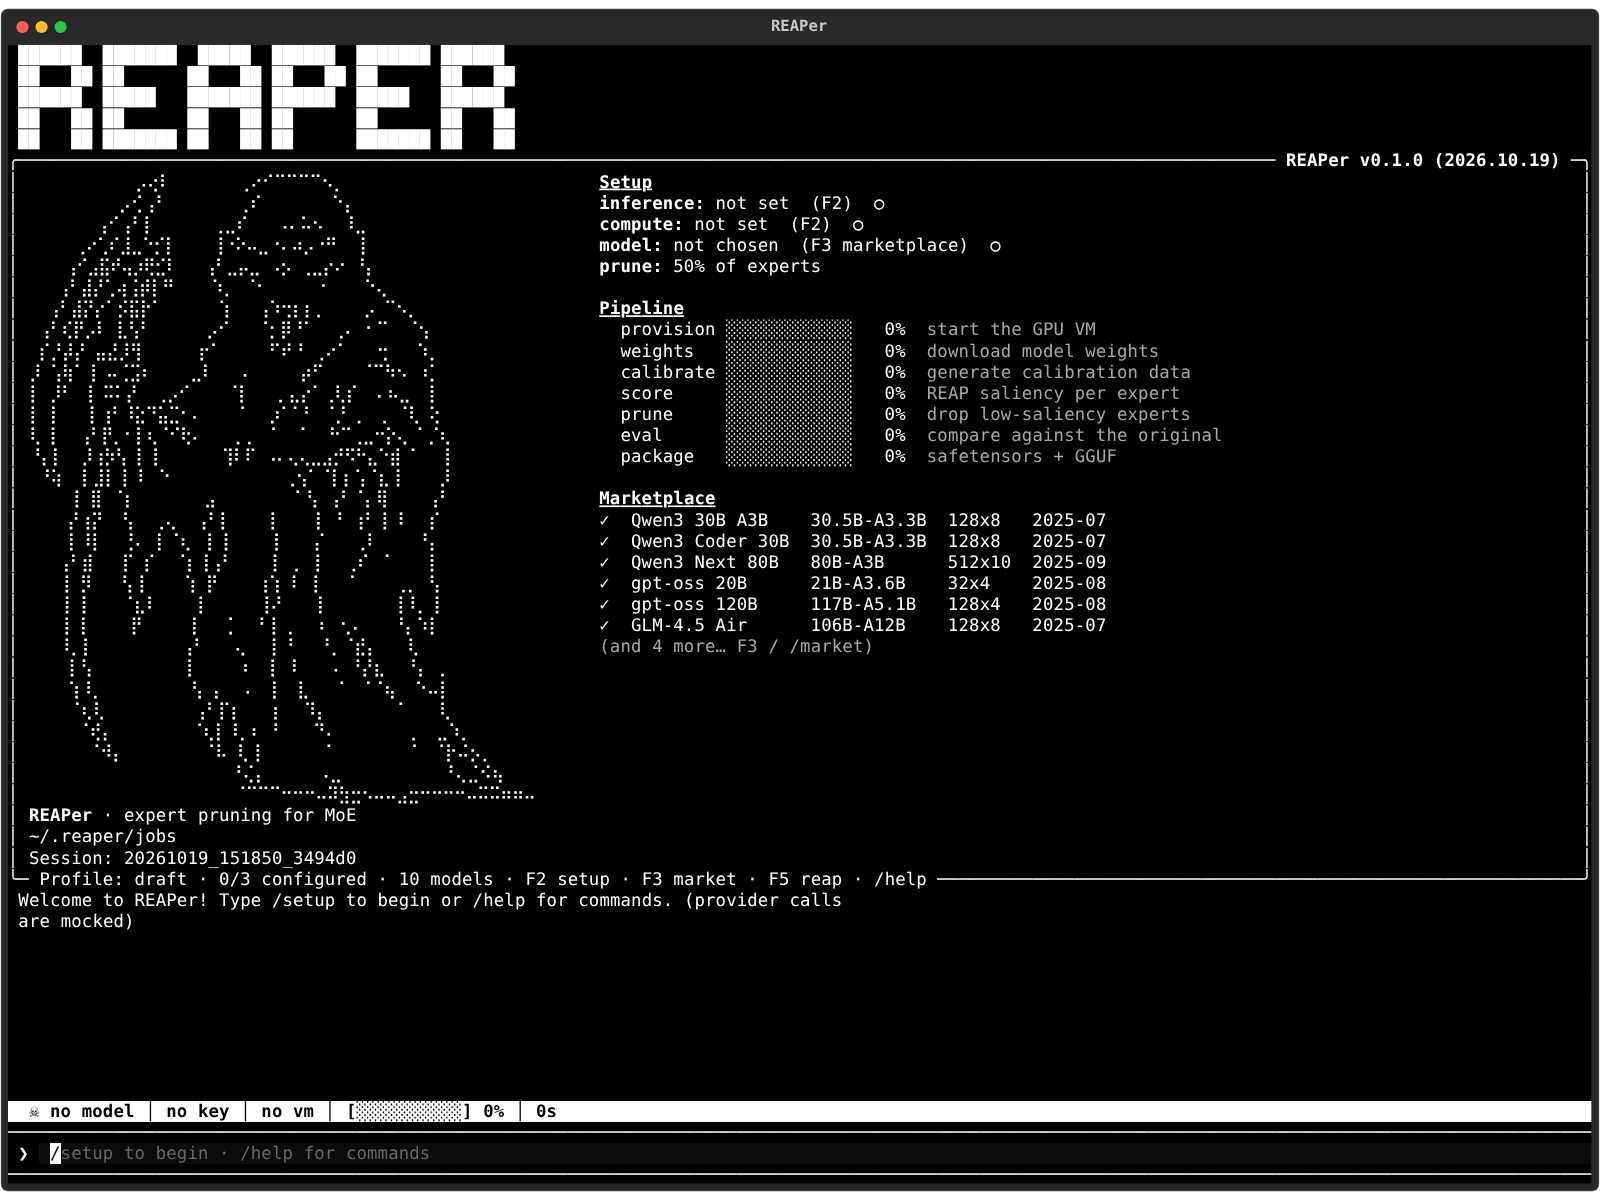
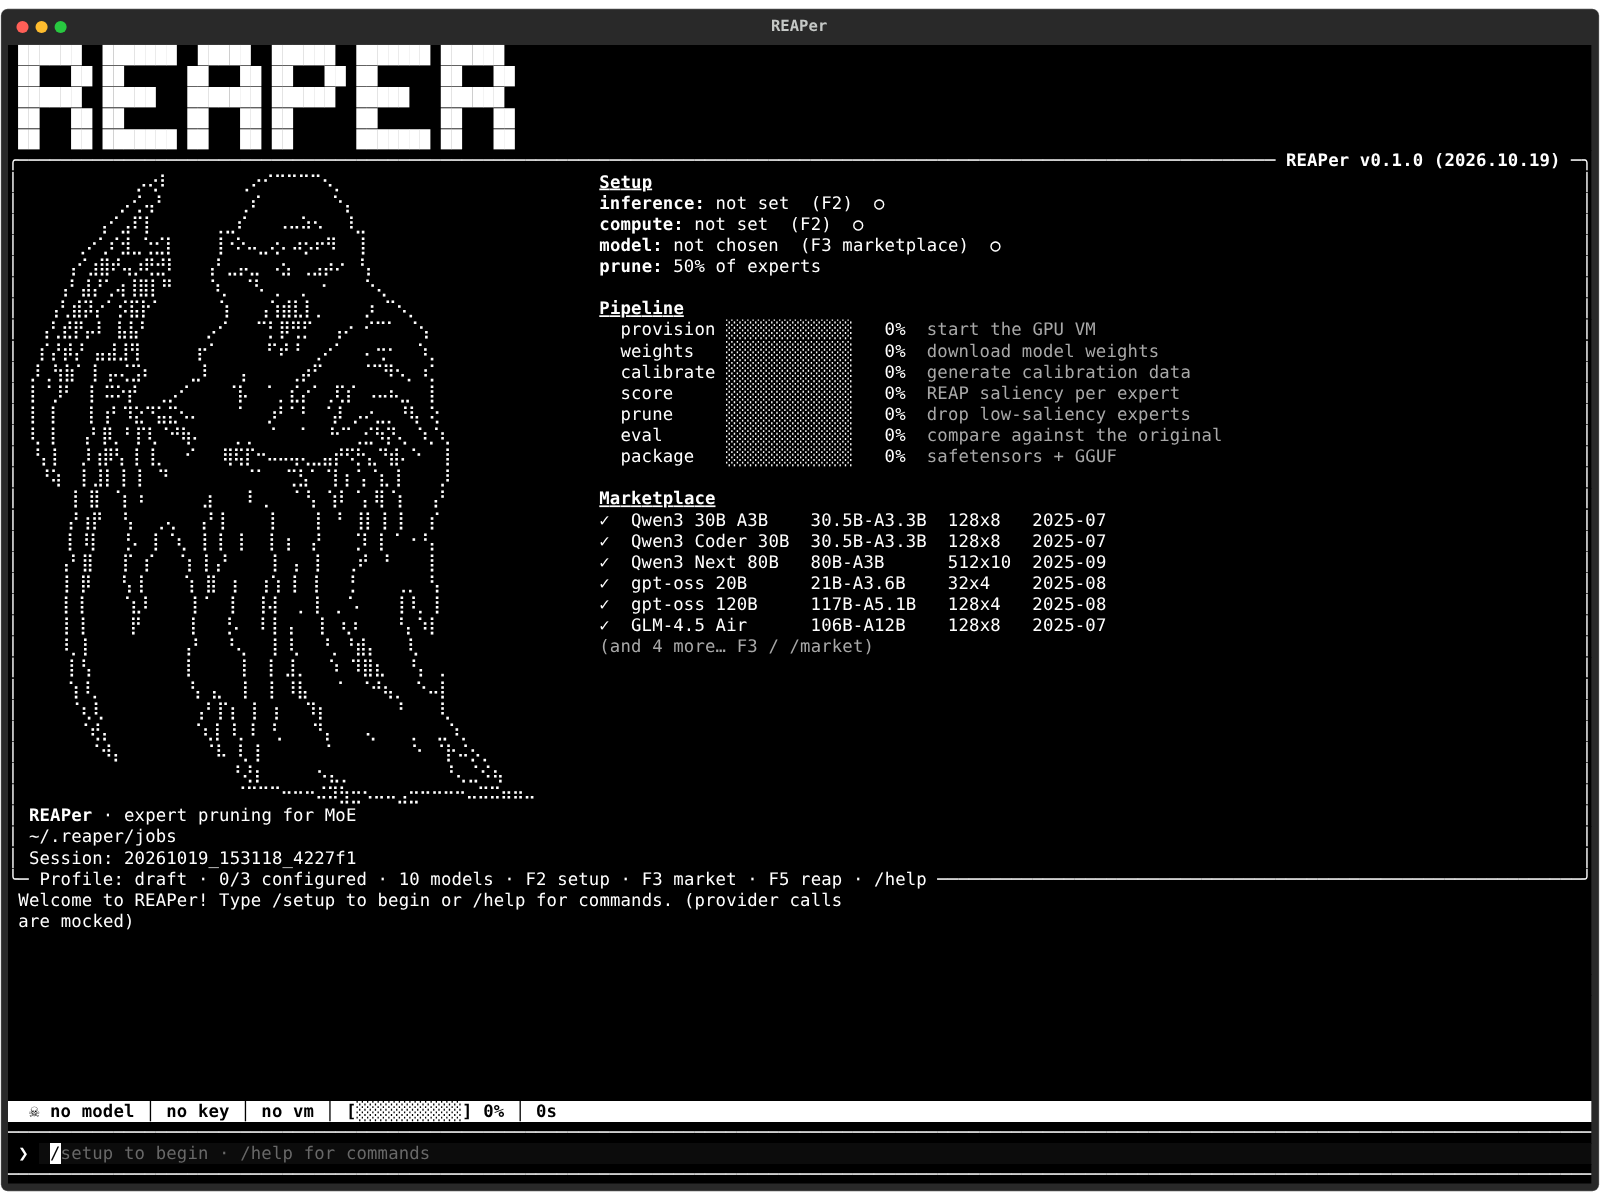
REAPer: slightly thicker reaper lines
Claude-Session: https://claude.ai/code/session_01VGAZs9gHQg7S7YAJ4xnDTB

diff --git a/reaper/reaper_tui/art.py b/reaper/reaper_tui/art.py
@@ -12,74 +12,74 @@ BANNER = """\
 
 # 60 x 38, used when the terminal is tall enough
 REAPER_LARGE = """\
-              ⢀⠔⡹          ⢀⠔⠊⠉⠉⠉⠉⠑⠲⡀
-            ⡠⠚⠁⡜          ⢰⠁        ⠘⡄
-          ⢀⠞⢀⠔⡜          ⢠⠃     ⠠⣀   ⠘⡄
-        ⢀⠔⠁⢐⡟ ⡇⢀⡀      ⡖⠒⡃    ⠐⠊⠑⠂⠑⣀  ⠑⢢
-       ⢠⠊⢠⠎⢘⣇ ⠈⣁⢣      ⡇⠘⠜⠢⢄⡠⠐⠆⡴⢊⠤⠚⠒⠅  ⢸
-      ⡔⠁⣰⣯⡶⣁⡀⣝⠟⠺⡸     ⡰⠁ ⣀  ⠈⢁⠤⡈⠁ ⢀⡠⣂⠆ ⠸⢄
-     ⡜ ⡜⡿⠋⢀⡀⣿⡜⡞⣦⠃    ⠸⡀ ⠉⠑⢏   ⠉⢁ ⠉⠩⠊   ⢠⠸⡀
-   ⢀⠜⢀⣾⢟⢀⠔⡡⢣⡿⢃⡇       ⠱⡀   ⠁ ⣆⣀⣨⢀      ⠈ ⡈⠢⢄
-  ⢀⠎⢀⢮⡷⢡⠃ ⡱⢱⠇⡇         ⡇   ⢀⡄⡝⡹⣹⢸⡐    ⢀⢄⠴  ⡀⠙⢄
-  ⡜⢀⢎⡿⢡⢼  ⡇⡏⡜        ⢀⠔⠁    ⡕⠇⢇⠿⠋⠡   ⡠⠃⠐⠊⠉    ⠑⡄
- ⡸ ⡌⣼⢡⠃⢀⣀⡸⠰⡇⡇       ⡤⠊      ⠁⡗⣭⠚⠃  ⣠⠎   ⢀⠠⠄   ⠐⡅
-⢠⠃⢰⢰⢇⠇ ⡎⠉⠉⠐⠧⢣      ⢠⠃  ⡀      ⠸  ⣠⠞⠁   ⢀⠡⠔⢶⣄⡀  ⡱
-⡜ ⠆⣼⡜  ⡇⢘⣓⣒⠴⡍     ⣀⠔⠁  ⠁⢀⡇     ⢀⠐⢋  ⢀ ⡀    ⠁⠈  ⢱
-⡇ ⢠⠛⠁ ⠘⡄⡐⠄⠂⢽⠁  ⢀⢤⠊⠁      ⡟    ⡀⢸⣴⠋  ⡎⡸⠁  ⠐⠚⠲⣄  ⠘⡄
-⡇ ⢸    ⢸ ⣰⠇⠐⣯⡉⠹⣁⣈⠑⠤      ⠃   ⣰⠁ ⠘  ⠘⢠⠇ ⣀⠄   ⠘⢇  ⡇
-⡇ ⢸    ⡸ ⡿ ⠠⢸⠑⡄⠙⠪⢳⢦          ⠁  ⠐   ⠼⠔⠊ ⠄⠪⡝⢦⡀ ⠳⡀⠑⡄
-⠸⡀⢸    ⡇⢸⢧⡆ ⢸ ⢱   ⠡⠡    ⠰⡰⣱         ⢀⠤⢤⣀⠙⢦⣈⢆⠑⣄ ⠈ ⢱
- ⢣⠘⡄  ⢸ ⣾⡎⢸ ⢸ ⠸⡄        ⠹⠙⠘⡈⠉⠉⠑⡐⣕⠴⡂⢭⣴⠈⠳⡈⢣⡀⠙⡏⠄⠈⠂  ⢸
-  ⠱⡇  ⡎⢀⣧⠃⠸⡀⠘⡀ ⠈                ⣌⢆⠈ ⢣⢸ ⢣ ⢱ ⢹     ⡸
-     ⢠⠃⢸⡹  ⡇ ⠃       ⢀⡄    ⠃    ⠈⠈⢆ ⠘⡼ ⠈⡄⢹⡇⢸    ⢠⠃
-     ⢸ ⡜⡇  ⢸         ⡜⢱      ⡆    ⢸  ⠇ ⢰⡇ ⡇⠸   ⢀⠎
-     ⡎ ⣷⠁   ⡇  ⡔⠑⢄  ⢠⠃⢸      ⡇    ⠸    ⠸⡇ ⡇    ⢸
-     ⡇⢠⡻   ⣀⡇ ⢀⠇ ⠈⡆ ⢸ ⢸  ⡇  ⢸⡇ ⡆  ⡇    ⢠⠇ ⡇    ⢸
-    ⢸ ⢸⡇   ⡏ ⢀⠎   ⠸⡀ ⡇⡎     ⢸⡇ ⡇  ⡇   ⡰⠋  ⠁    ⢸
-    ⢸ ⠈⡇   ⢸ ⢜     ⢣ ⢱⠇ ⢠   ⡸⢱ ⠃  ⡇   ⡇        ⠈⡆
-    ⢸ ⣿     ⢣⢸     ⠸⡀⢸  ⢸   ⢇⡸ ⠈  ⢣   ⢃     ⢸⢱  ⡇
-    ⢸ ⢻     ⢸⡸      ⡇   ⢸   ⡘⢡  ⠐ ⠸⡀ ⢀ ⠁    ⢸ ⢇ ⡇
-    ⢸ ⢸     ⢸⠃      ⡇   ⡠⠂  ⠇⢸   ⢠ ⢣ ⠈⡆⢆    ⠈⡆ ⢷⠁
-    ⢸ ⢸            ⢸    ⠃⢄   ⢸ ⢸ ⠘ ⠈⡆ ⠸⡜⡄    ⢣
-    ⠈⡆⢸            ⢸      ⢣  ⢸  ⡆   ⠘⡀ ⢻⡽⣆   ⠘⡄
-     ⢇ ⡇           ⠘⡄     ⠘  ⢸ ⠐⣱       ⠑⠝⣅   ⠸⡀⢸⡆
-     ⠘⡄⢣            ⠈⡆⢰⡆  ⠐  ⡸  ⠹⣇    ⠁   ⠈⠳⡄  ⠈⢁⠇
-      ⠱⡈⡆            ⡇⢸⠘⡄    ⠁   ⠹⡆         ⠁    ⢣
-       ⢱⠱⡀           ⢇⢸ ⢱ ⢠  ⠇    ⠙⡄    ⠄   ⢄     ⠑⢄
-        ⠑⣵           ⠈⢪⡆ ⢇⠈⡆       ⠈    ⠈     ⠑⠄ ⠙⡦⢌⠢⡀
-         ⠈⠁           ⠈⠁ ⠸⡀⡇                      ⠸⡀⠑⢌⠢⡀
-                          ⠓⠼⣀⣀     ⠈⠲⣤⣀            ⠘⠢⢄⣉⣺⠆
-                              ⠉⠉⠉⠉⠑⠒⠒⠤⠽⣫⣕⠒⠲⠤⠤⣲⣖⡒⠒⠒⠒⠒⠒⠒⠒⠢⠭⠵⠶⠶"""
+              ⢀⠔⡿          ⢀⠔⠊⠉⠉⠉⠉⠑⠲⡀
+            ⣠⠞⡁⡜          ⢰⠁        ⠘⡄
+          ⢀⠞⢁⡜⡜          ⢠⠃     ⠠⣀   ⠘⡄
+        ⢀⠔⠁⣴⡟ ⡇⢀⡀      ⡖⠒⡃    ⠒⠊⠙⠊⠓⣀  ⠑⢢
+       ⢠⠊⢠⠎⢘⣇ ⠉⣁⢣      ⡇⢘⠜⠢⢄⡢⢐⠆⡴⢊⡤⠚⠒⡅  ⢸
+      ⡔⠁⣰⣿⣶⣁⡀⣝⠟⢺⡸     ⡰⢁⡘⣀  ⠈⢁⠤⡈⠁ ⢀⣠⣂⠦ ⠸⢄
+     ⡜ ⡜⡿⠋⢀⡀⣿⣼⡞⣧⠃    ⠸⡀ ⠉⠑⢿⠃  ⠉⢃ ⠉⠩⠊   ⢰⠾⡀
+   ⢀⠜⢀⣾⢿⢠⠔⣡⢣⣿⢋⡇       ⠱⡀   ⠁ ⣆⣠⣨⢢ ⠁    ⠈ ⡌⠢⢄
+  ⢀⠎⢠⢯⡷⢣⠃ ⡱⣱⡇⡇         ⡇   ⣀⡄⣽⡿⣹⢸⡔⠄   ⢀⢄⠴⠁⢀⣀⠙⢄
+  ⡜⢀⢏⡿⢡⢼  ⡇⡏⡜        ⢀⠔⠁    ⡝⠇⢇⠿⠏⢡   ⡰⠋⠐⠊⠉⠁   ⠑⡄
+ ⡸ ⡞⣼⢡⠃⢀⣀⡸⠸⡿⡇       ⡤⠊      ⠁⡗⣭⠺⠇  ⣠⠞   ⢀⠤⠤⢀⡀ ⠐⡅
+⢠⠃⢸⢱⣇⠇ ⡎⠉⠉⠓⠧⢧      ⢠⠃  ⡄⢀     ⠸  ⣠⡞⠁   ⢀⡥⠖⢶⣄⡀  ⡱
+⡜ ⡇⣼⡞  ⡇⢘⣛⣒⠴⡍     ⣀⠔⠁  ⠁⢀⡇     ⢀⠘⢋⡀ ⢀ ⡀    ⠙⠉⠢ ⢱
+⡇ ⢡⠛⠁ ⠘⡅⣐⠶⠒⢽⠁  ⢀⣤⠚⠁     ⠈⡿  ⠈ ⡄⢸⣴⠋ ⢀⡏⣼⠁ ⠠⠒⠚⠶⣄  ⠘⡄
+⡇ ⢸    ⢸ ⣰⠇⡔⣯⡋⡹⣁⣈⠓⠤⡀     ⠃   ⣰⢃⠈⠜  ⠸⢠⠇ ⣀⠄   ⠘⢗  ⡇
+⡇ ⢸    ⡸⢀⡿ ⢢⢸⠹⡄⠙⠯⢷⣦⢀         ⠃  ⠐   ⢾⠔⠋ ⠴⠻⣝⢦⡀ ⠳⡀⠑⡄
+⠸⡀⢸    ⡇⢸⢧⡆ ⢸⠇⢹   ⠣⠣   ⢀⣴⡼⣱⠆        ⣀⡤⢴⣎⠙⢦⣘⢆⠑⣄ ⠈ ⢱
+ ⢣⠘⡄  ⢸ ⣾⡎⢸ ⢸ ⠸⣄   ⠃   ⠈⠻⡙⢽⡛⠉⠭⢗⡹⣕⢶⡲⢽⣴⠉⠳⡈⢳⡀⠹⡟⡄⠈⠢  ⢸
+  ⠱⡇  ⡎⢀⣧⠃⠸⡀⠸⡄ ⠈⠑          ⠰⠁   ⣌⢆⠈⠂⢻⢸ ⢣ ⣻⡀⢹     ⡸
+     ⢠⠃⢸⡹  ⡇ ⠇       ⢀⡄    ⠇ ⡀  ⠈⠈⢇ ⠸⡼ ⠘⡆⢹⡇⢸    ⢠⠃
+     ⢸ ⡼⡇  ⢸         ⡜⢱   ⠸  ⡇    ⢸  ⡇ ⢸⡇⠈⡇⢸   ⢀⠎
+     ⡎ ⣷⠁   ⡇  ⡔⠑⢄  ⢠⠃⢸  ⡀  ⢰⡇    ⡸    ⠸⡇ ⡇⠈  ⡄⢸
+     ⡇⢰⡿   ⣀⡇ ⢀⠇ ⠈⡆ ⢸ ⢸  ⡇  ⢸⡇ ⡇  ⡇    ⢰⠇ ⡇   ⠃⢸
+    ⢸ ⢸⡇   ⡏ ⢀⠎   ⠸⡀ ⡇⡎ ⢀⠁  ⢸⡇ ⡇  ⡇   ⣰⠋  ⠁    ⢸
+    ⢸ ⡌⡇   ⢸ ⢜     ⢣ ⢱⡇ ⢸   ⡸⢱ ⠇  ⡇   ⡇        ⠈⡆
+    ⢸ ⣿     ⢣⢸     ⠸⡀⢸⠁ ⢸   ⢇⣸ ⠘  ⢧   ⢃     ⢸⢱  ⡇
+    ⢸ ⣿     ⢸⡸      ⡇⠈  ⢸   ⡼⢹  ⠐⡀⠸⡄ ⢂⢀⠁    ⢸ ⢇ ⡇
+    ⢸ ⣿     ⢸⠃      ⡇   ⣸⠂  ⠇⢸ ⠇ ⢰ ⢣ ⠘⣎⣆    ⠈⡆ ⢷⠁
+    ⢸ ⢹            ⢸    ⠃⢄   ⢸ ⢸ ⢸ ⠈⡆ ⢹⡼⣆    ⢣
+    ⠈⡆⢸            ⢸      ⢣  ⢸ ⠈⡇⠈  ⠘⡄ ⢻⡽⣆   ⠘⡄
+     ⢇ ⡇           ⠘⡄     ⢸  ⣿ ⠰⣻ ⠠  ⠱⡀ ⠙⠝⣇   ⠸⡀⢸⡆
+     ⠘⡄⢣            ⠈⡆⢰⡆  ⢸  ⡿  ⢹⣇ ⠃  ⠁   ⠈⠳⡄  ⠈⢉⠇
+      ⠱⡈⡆            ⡇⢸⠘⡄ ⢸ ⢠⠃   ⠻⡆         ⠁    ⢧
+       ⢱⠱⡀           ⢇⢸ ⢱ ⢸  ⠇    ⠹⡄   ⠈⢄   ⢆⡀    ⠑⣄
+        ⠑⣵           ⠈⢪⡆ ⢇⠈⡆ ⠈     ⠈⠄   ⠈⠂   ⠈⠑⠄ ⠹⡶⢌⠢⡀
+         ⠈⠁           ⠈⠁ ⠸⡀⣇                      ⠸⡀⠑⢌⡢⡀
+                          ⠓⠽⣀⣀     ⠉⠲⣤⣀            ⠙⠢⢄⣉⣺⠆
+                              ⠉⠉⠉⠉⠑⠒⠒⠤⠽⣫⣕⠒⠲⠦⠤⣲⣖⡒⠒⠒⠒⠒⠒⠒⠒⠢⠭⠵⠶⠶"""
 
 # 48 x 30
 REAPER = """\
            ⡠⢔⠇       ⢀⠔⠊⠉⠉⠉⠉⠢⡀
-         ⡠⢊⢠⠃       ⢀⠎       ⠑⡄
-       ⢠⠊⢠⠃⡇      ⢀⣀⠎   ⠠⠄⠥⠢  ⠸⣀
-     ⢀⠔⢁⠎⣸⣀⠑⡊⡇    ⢸⠐⠕⠤⣀⠐⠄⠴⡠⠐⠛  ⢸
-    ⢠⠊⣠⣯⠞⢤⡰⢟⣊⠇   ⢠⠃⣀⡤⣀ ⠠⡢ ⢀⣀⡔⠔ ⠘⡄
-   ⢠⠃⣼⡜⢁⢴⢨⡾⡇⠛    ⠱⡀ ⠈⠂     ⠐    ⠑⢄
-  ⢠⠃⣼⡝⡔⠁⡪⣯⡗⠁      ⢱   ⢠⠱⢒⡆⡆⡀    ⡠ ⠉⠢⡀
- ⢠⠃⢎⡟⡠⠇ ⣇⢣⠃      ⡠⠊   ⠈⡂⡿⠘⠁  ⢀⠄ ⠂⠉  ⠈⢢
- ⡎⡘⡼⡜ ⣤⣜⡸⢻      ⡖⠁     ⠋⠞⠘ ⢀⠔⠁   ⢒   ⠱⡀
-⡸ ⢡⢷⠁⢸ ⠤⢈⣩⠆    ⣀⠇   ⠄     ⡴⠋    ⠈⠉⠳⠢ ⠰⡁
-⡇ ⡸⠃ ⢸ ⠭⠅⡜  ⢀⡠⠊    ⠈⡇   ⡀⣄⡔⠁⢀⢇⡎  ⠄⠦⣀  ⡇
-⡇ ⡇   ⡇⢰⠃⠸⣕⠙⣥⣉⠂⠄    ⠁  ⡰⠁⠁⠃ ⠈⡘ ⡀ ⢀ ⠈⢇ ⢕
-⢇ ⡇  ⢠⠃⡟⡀⠂⡇⢆⠈⠊⢗⠄   ⢀⢀  ⠁  ⠁  ⠓⠉⢀⣀⠒⡕⢄ ⠁⡈⢆
-⠘⡄⡇  ⡸⢰⡳⢣ ⡇⢸       ⢹⠇⠏ ⠠⠄⢄⢄⣀⣠⡚⠫⠓⣄⠑⣾ ⠁  ⢸
- ⠘⢵  ⡇⣸⡇⢸ ⠇ ⠑            ⢀⢢⠁⠈⡇⡆⢡⠈⣆⢸    ⡸
-    ⢸ ⣿ ⠈⡆       ⣠        ⠁⢣ ⢠⠃⠈⡄⢿    ⢠⠃
-    ⡜⢰⡝  ⢣  ⢀⢄  ⢠⠃⡇    ⡇   ⢸ ⠘ ⢰⠃⢸ ⠇  ⡎
-    ⡇⠸⡇  ⢘⠄ ⡇⠈⢆ ⢸ ⡇    ⡇   ⡌   ⢀⠇    ⠘⡄
-   ⢠⠃⣾   ⡏ ⡎  ⠈⡆⢸⢠⠃    ⡇ ⡀ ⡇  ⢀⠎ ⠈    ⡇
-   ⢸ ⡻   ⢣⢸    ⢱ ⡟    ⢰⢱ ⠇ ⡇  ⠈    ⢀⡀ ⢣
-   ⢸ ⡇   ⠈⣆⠇    ⡇     ⢸⠜   ⢸       ⢸⠸⡀⢸
-   ⢸ ⡇    ⡟     ⡇  ⢈  ⠘⢸ ⡀  ⠆ ⢂⠄   ⠘⡄⠱⡇
-   ⠸⡀⡇         ⢠⠃   ⢄  ⢸ ⠃  ⠘⡀⠈⣞⡄   ⢇
-    ⡇⢣         ⢸     ⠆ ⢸ ⠸   ⠠ ⠘⡜⣆  ⠘⡄ ⡀
-    ⢱⠸⡀         ⢣ ⡄  ⠄ ⢸  ⣇   ⠁ ⠈⠈⢦  ⠑⠤⡇
-    ⠈⢆⢇         ⢠⠃⡏⡆   ⡆  ⠹⡄       ⠁   ⢇
-     ⠈⢞⡄        ⠈⢆⡇⠸⡀⠆ ⠃   ⠙⠄       ⢀  ⣀⠱⡀
-      ⠈⠺⡄        ⠈⠧ ⢇⢸      ⠈        ⠁ ⠈⡗⠬⡢⡀
-                    ⠘⢌⡄     ⠠⣀          ⠘⢄⣈⠪⢦
-                      ⠈⠉⠉⠉⠒⠒⠒⠤⠽⣳⣒⠢⠤⠤⣠⣒⠒⠒⠒⠒⠤⠭⠭⠶⠶⠤"""
+         ⡠⢊⢤⠃       ⢀⠎       ⠑⡄
+       ⢠⠊⣠⠏⡇      ⢀⣀⠎   ⠠⠤⠵⠢  ⠸⣀
+     ⢀⠔⢁⠎⣺⣀⢑⣊⡇    ⢸⠐⠕⠤⣀⢔⠄⠴⡢⠖⠻  ⢸
+    ⢠⠊⣰⣿⠞⢤⡰⢟⣚⠇   ⢠⠃⣀⡤⣀ ⠠⣢ ⢀⣠⡴⠔ ⠘⡄
+   ⢠⠃⣼⡜⢁⢴⢸⣿⡇⠛    ⠱⡀ ⠈⠣ ⡀ ⢀ ⠐    ⠑⢄
+  ⢠⢃⣾⡽⡔⠁⡪⣯⡗⠁      ⢱   ⢠⢱⣾⣇⡇⡀    ⡰ ⠉⠢⡀
+ ⢠⢃⣞⡟⡤⠇ ⣧⣧⠃      ⡠⠊   ⠉⡃⡿⢛⡋  ⢠⠔ ⠊⠉⠁ ⠈⢢
+ ⡎⡜⡾⡜ ⣤⣼⣸⢻      ⡖⠁     ⠋⠞⠘ ⢀⠔⠁  ⠄⢒⠂  ⠱⡀
+⡸⢀⢳⣷⠁⢸ ⡤⢌⣩⠆    ⣀⠇   ⡄    ⢀⡴⠋    ⠈⠉⠻⠢⡀⠰⡁
+⡇⠈⡸⠃ ⢸ ⠭⠕⡞  ⢀⡠⠊    ⠈⡧  ⠁⡀⣎⡔⠁⢀⢏⡎ ⠠⠤⠦⣀  ⡇
+⡇ ⡇   ⡇⢰⠃⠹⣕⠙⣥⣍⠢⠄    ⠁  ⡰⠃⠁⠃ ⠈⡼ ⡠⠔⣀⡀⠘⢧ ⢕
+⢇ ⡇  ⢠⠃⡿⡀⠃⡏⢇⠈⠚⢷⠄   ⢀⢀  ⠁  ⠁  ⠓⠉⢀⣊⠳⡝⢄ ⠱⡈⢆
+⠘⡄⡇  ⡸⢰⡿⢣ ⡇⢸⡀  ⠊   ⢿⢯⡏⠒⠤⠤⢤⢄⣀⣤⡞⠫⡓⣄⠙⣾⠄⠑  ⢸
+ ⠘⢵  ⡇⣸⡇⢸ ⡇ ⠙        ⠈⠁  ⢉⣣⠁⠈⡇⡆⢡⠈⣆⢸    ⡸
+    ⢸ ⣿ ⠈⡆⠰      ⣰   ⠸ ⡀  ⠁⢣ ⢱⠇⠈⡄⢿⠈⡆  ⢠⠃
+    ⡜⢰⡟  ⢣  ⢀⢄  ⢠⠃⡇    ⡇   ⢸ ⠘ ⢸⡇⢸ ⡇  ⡎
+    ⡇⠸⡇  ⢘⠄ ⡇⠈⢆ ⢸ ⡇ ⡇  ⡇⢰  ⡜   ⢈⠇⢸ ⠁⠐⠘⡄
+   ⢠⠃⣿   ⡏ ⡎  ⠈⡆⢸⢠⠃    ⡇ ⡄ ⡇  ⢀⠞ ⠘    ⡇
+   ⢸ ⡿   ⢣⢸    ⢱ ⣿ ⢰  ⢰⢱ ⡇ ⡇  ⢘    ⢀⡀ ⢣
+   ⢸ ⡇   ⠈⣆⠇    ⡇⠁ ⢸  ⢸⢼  ⡀⢸ ⢀⠈⠄   ⢸⠸⡀⢸
+   ⢸ ⡇    ⡟     ⡇  ⢘⠄ ⠸⢸ ⡄  ⡇ ⢆⠆   ⠘⡄⠱⡇
+   ⠸⡀⡇         ⢠⠃  ⠘⢄  ⢸ ⢇  ⠘⡀⠘⣾⡄   ⢇
+    ⡇⢣         ⢸     ⡇ ⢸ ⣸⡀  ⠱ ⠹⣿⣆  ⠘⡄ ⡀
+    ⢱⠸⡀         ⢣ ⣄  ⡇ ⢸ ⠸⣧   ⠁ ⠈⠚⢦⡀ ⠑⠤⡇
+    ⠈⢆⢇         ⢠⠃⡏⡆ ⡇ ⡆  ⠹⡆       ⠃   ⢇
+     ⠈⢞⡄        ⠈⢆⡇⠸⡀⠇ ⢃   ⠙⡄   ⢄   ⢀  ⣀⠱⡀
+      ⠈⠺⡄        ⠈⠧ ⢇⢸      ⠈        ⠑ ⠈⡗⠬⡢⡀
+                    ⠘⢜⡆     ⠢⣄⡀         ⠘⢄⣈⠪⢦
+                      ⠈⠉⠉⠉⠒⠒⠒⠬⠽⣳⣒⠢⠤⠤⣠⣒⠒⠒⠒⠒⠤⠭⠭⠶⠶⠤"""
